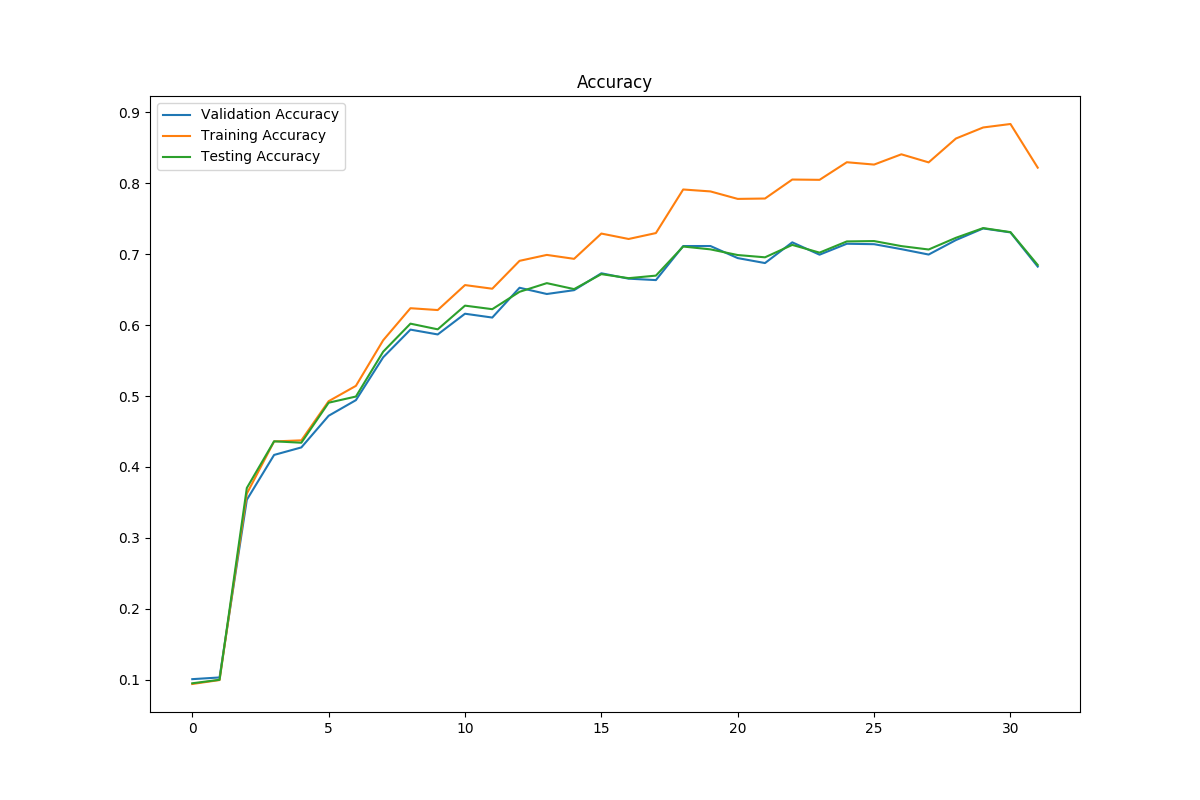
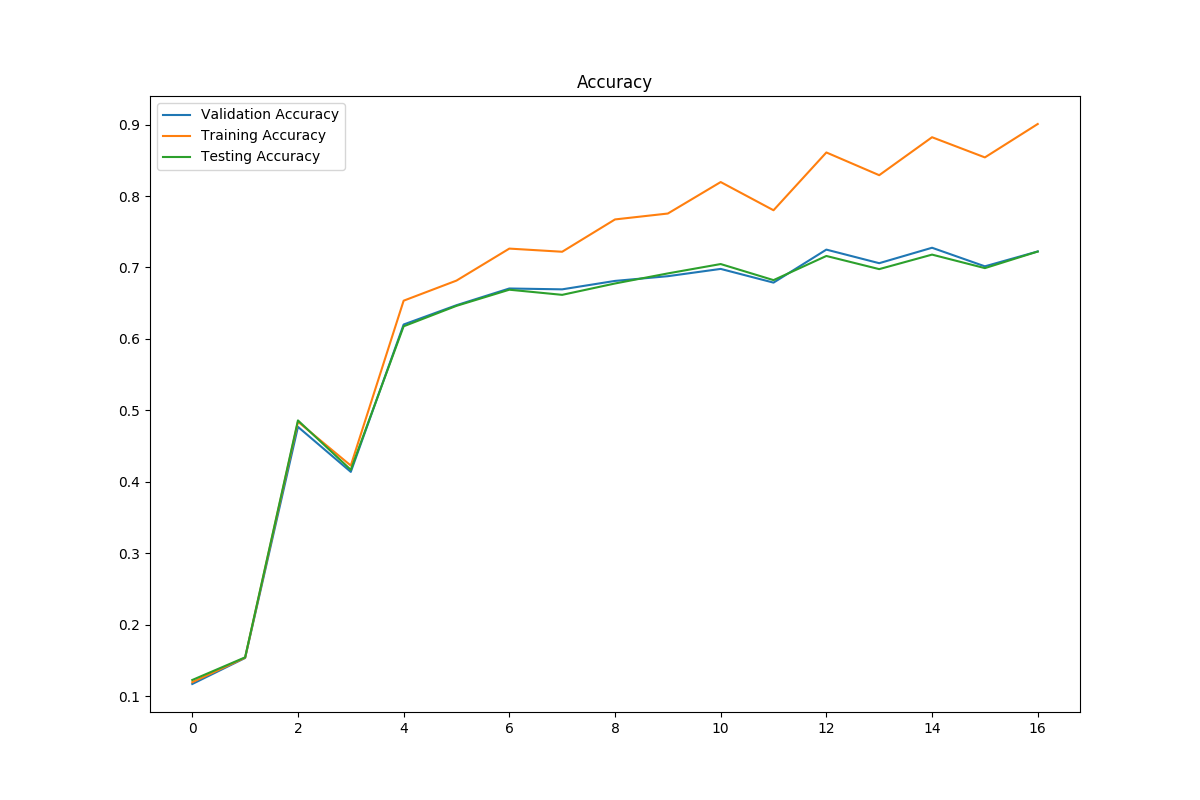
Run code, create plots

diff --git a/task_1.py b/task_1.py
@@ -48,7 +48,7 @@ class Model_task1(nn.Module):
         self.classifier = nn.Sequential(
                 nn.Linear(self.num_output_features,64),
                 nn.Linear(64,num_classes),
-                nn.Softmax()
+                #nn.Softmax()
                 )
     def forward(self, x):
         x = self.layer1(x)
@@ -66,10 +66,10 @@ class Trainer:
         Set hyperparameters, architecture, tracking variables etc.
         """
         # Define hyperparameters
-        self.epochs = 1
+        self.epochs = 30
         self.batch_size = 64
-        self.learning_rate = 5e-2
-        self.early_stop_count = 2
+        self.learning_rate = 1e-1
+        self.early_stop_count = 3
 
         # Architecture
 
@@ -78,7 +78,7 @@ class Trainer:
         # Initialize the mode
         self.model = Model_task1(image_channels=3, num_classes=10)
         # Transfer model to GPU VRAM, if possible.
-        #self.model = to_cuda(self.model)
+        self.model = to_cuda(self.model)
 
         # Define our optimizer. SGD = Stochastich Gradient Descent
         self.optimizer = torch.optim.SGD(self.model.parameters(),
@@ -117,7 +117,7 @@ class Trainer:
         )
         self.VALIDATION_ACC.append(validation_acc)
         self.VALIDATION_LOSS.append(validation_loss)
-        print("Current validation loss:", validation_loss, " Accuracy:", validation_acc)
+        #print("Current validation loss:", validation_loss, " Accuracy:", validation_acc)
         # Compute for testing set
         test_loss, test_acc = compute_loss_and_accuracy(
             self.dataloader_test, self.model, self.loss_criterion
@@ -193,7 +193,7 @@ if __name__ == "__main__":
     plt.plot(trainer.TEST_LOSS, label="Testing Loss")
     plt.legend()
     plt.savefig(os.path.join("plots", "final_loss.png"))
-    plt.show()
+    #plt.show()
 
     plt.figure(figsize=(12, 8))
     plt.title("Accuracy")
@@ -202,7 +202,7 @@ if __name__ == "__main__":
     plt.plot(trainer.TEST_ACC, label="Testing Accuracy")
     plt.legend()
     plt.savefig(os.path.join("plots", "final_accuracy.png"))
-    plt.show()
+    #plt.show()
 
     print("Final test accuracy:", trainer.TEST_ACC[-trainer.early_stop_count])
     print("Final validation accuracy:", trainer.VALIDATION_ACC[-trainer.early_stop_count])
